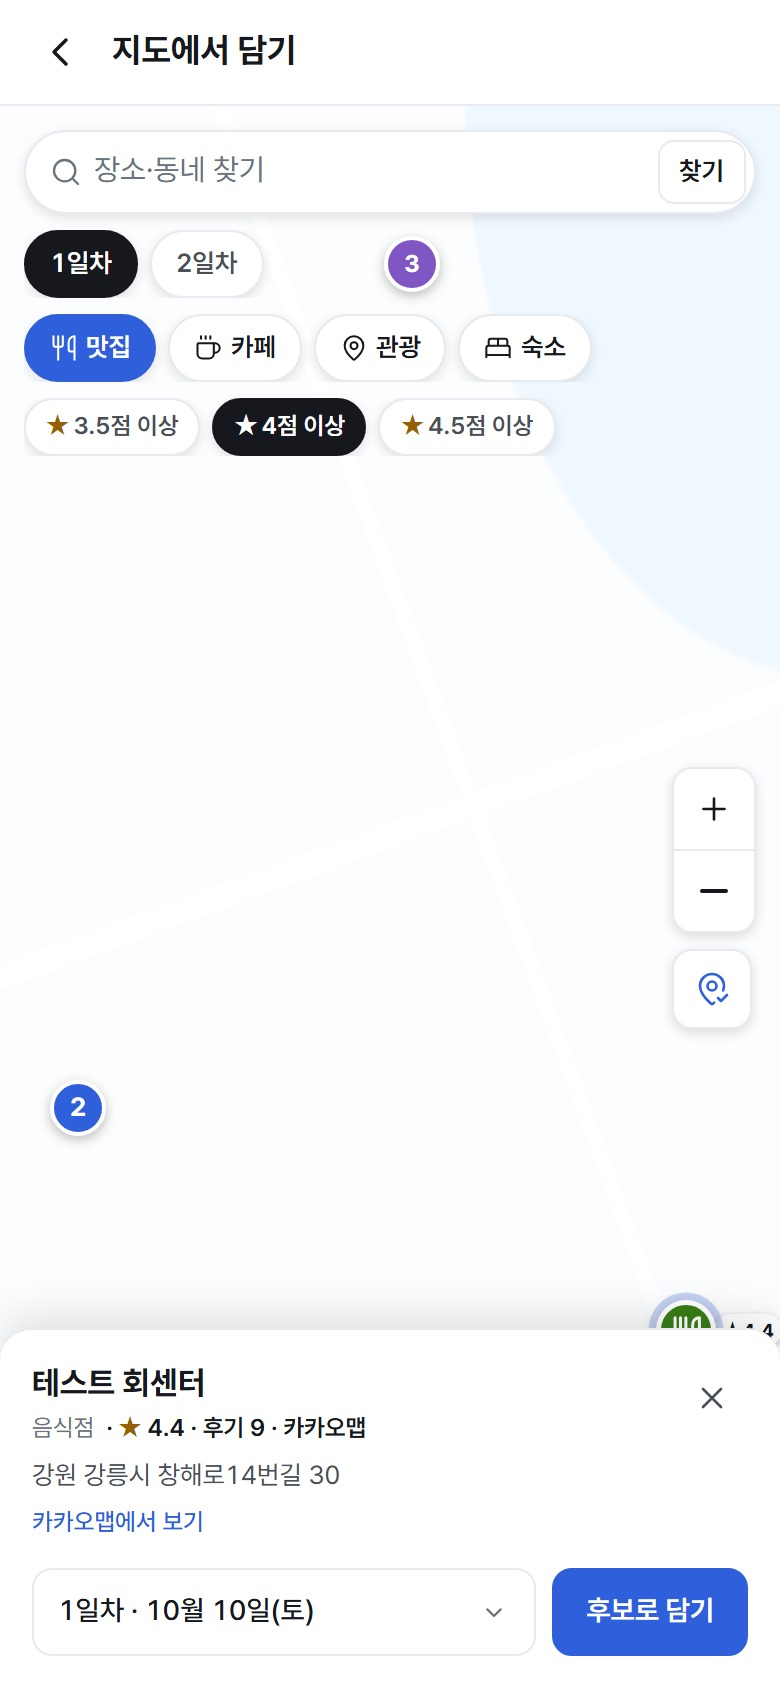
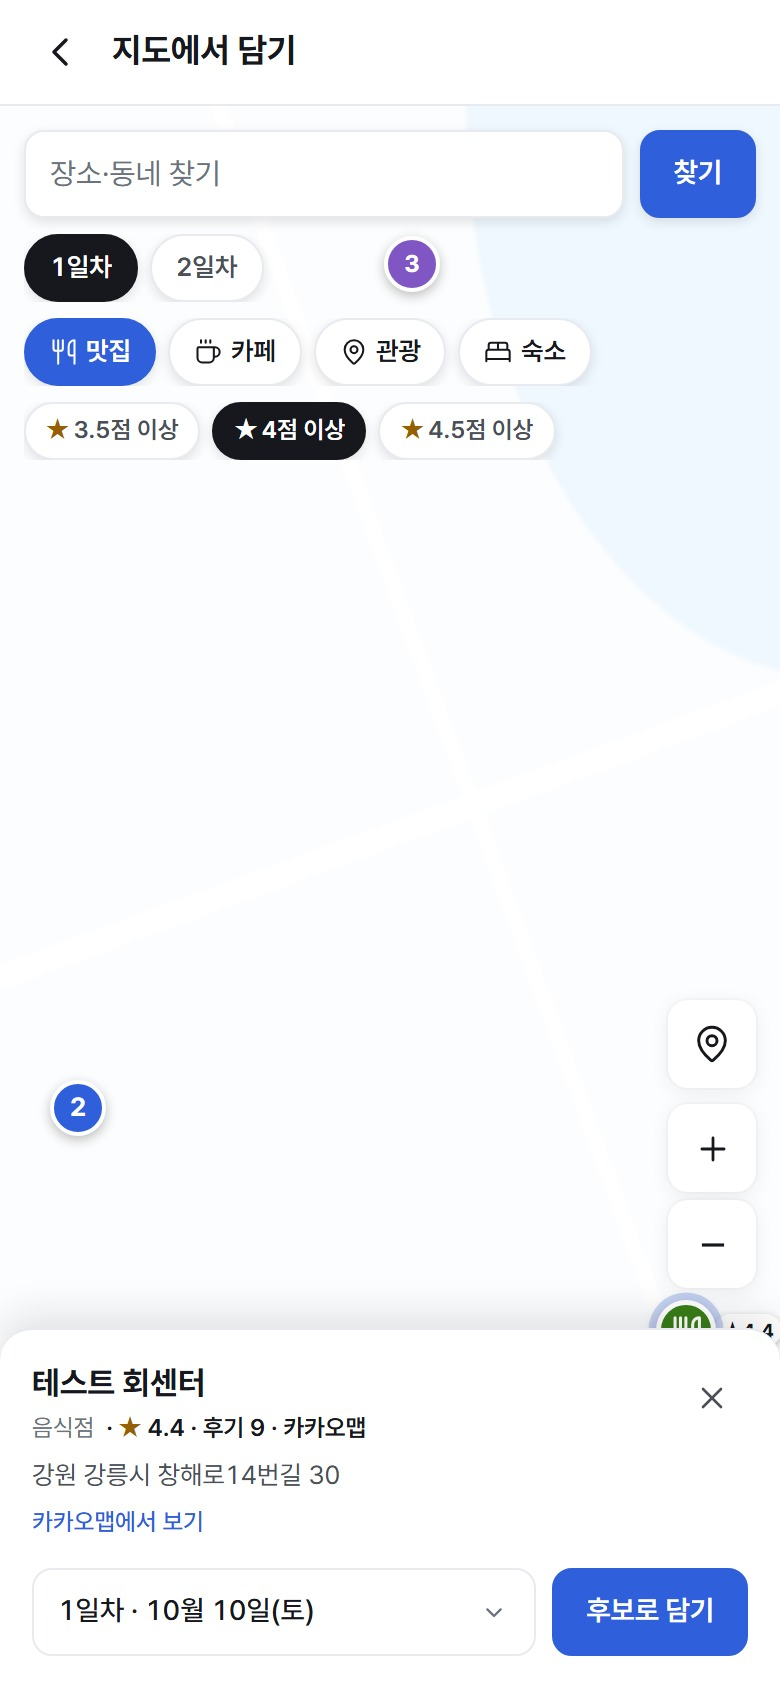
chore(app): 바뀐 큰 지도·토스트로 사용법 캡처를 다시 찍는다

diff --git a/app/src/app/features/guide/model/guide-marks.ts b/app/src/app/features/guide/model/guide-marks.ts
@@ -179,13 +179,13 @@ export const GUIDE_MARKS: Readonly<Record<string, readonly GuideMark[]>> = {
       "x": 3.08,
       "y": 7.7,
       "w": 93.85,
-      "h": 4.98,
+      "h": 5.21,
       "r": 0
     },
     {
       "spot": 1,
       "x": 3.08,
-      "y": 18.62,
+      "y": 18.86,
       "w": 93.85,
       "h": 4.05,
       "r": 0
@@ -193,17 +193,17 @@ export const GUIDE_MARKS: Readonly<Record<string, readonly GuideMark[]>> = {
     {
       "spot": 2,
       "x": 3.08,
-      "y": 23.61,
+      "y": 23.85,
       "w": 93.85,
       "h": 3.39,
       "r": 0
     },
     {
       "spot": 3,
-      "x": 86.15,
-      "y": 45.38,
-      "w": 10.77,
-      "h": 15.52,
+      "x": 85.64,
+      "y": 59.24,
+      "w": 11.28,
+      "h": 17.06,
       "r": 0
     },
     {
